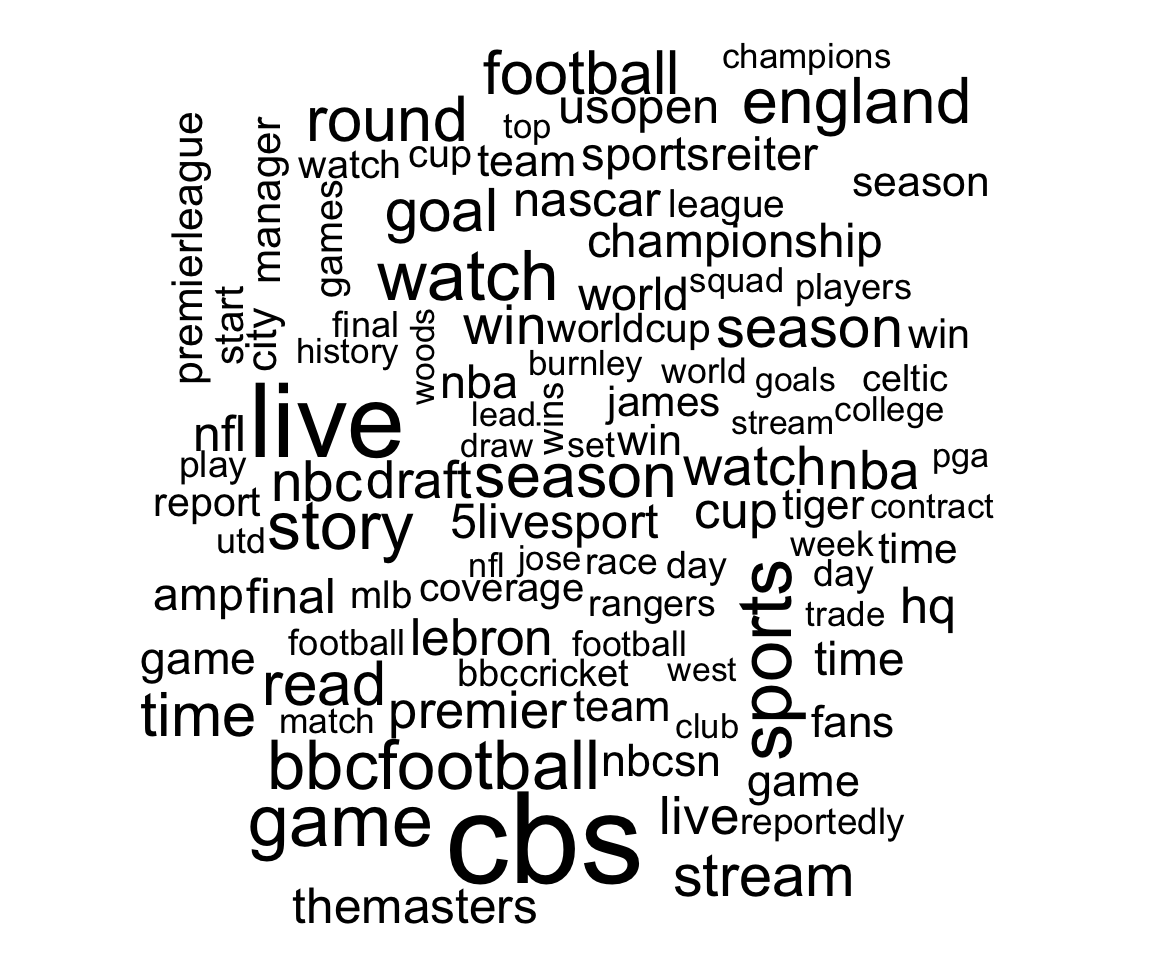
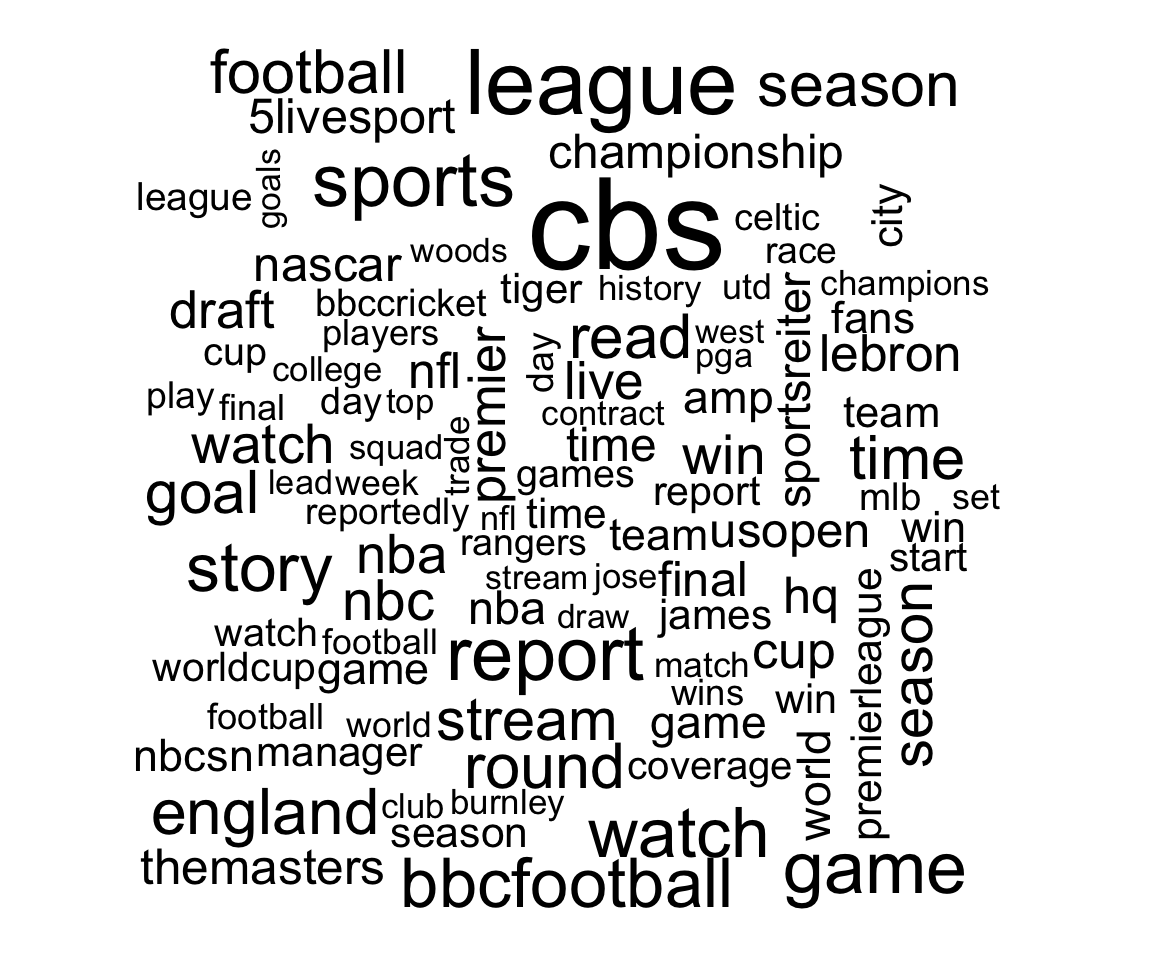
first commit

Changed region(s): [[0.0938, 0.0312, 0.875, 0.9688]]

diff --git a/portfolio/textminingr/index.html b/portfolio/textminingr/index.html
@@ -419,9 +419,7 @@ sports_sentiments_bing &lt;- timelines_frequency %&gt;%
   count(word) %&gt;%
   with(wordcloud(word, n, max.words = 100))</code></pre>
 <pre><code>## Joining, by = &quot;word&quot;</code></pre>
-<pre><code>## Warning in wordcloud(word, n, max.words = 100): league could not be fit on
-## page. It will not be plotted.</code></pre>
-<pre><code>## Warning in wordcloud(word, n, max.words = 100): report could not be fit on
+<pre><code>## Warning in wordcloud(word, n, max.words = 100): live could not be fit on
 ## page. It will not be plotted.</code></pre>
 <p><img src="/portfolio/TextMiningR_files/figure-html/unnamed-chunk-14-1.png" width="576" /></p>
 </div>
